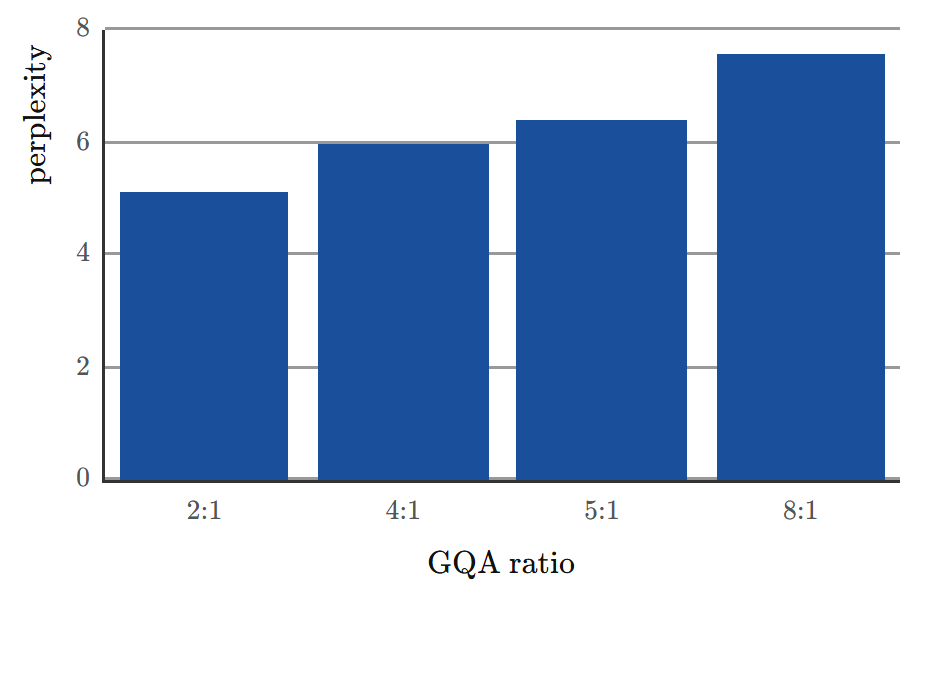
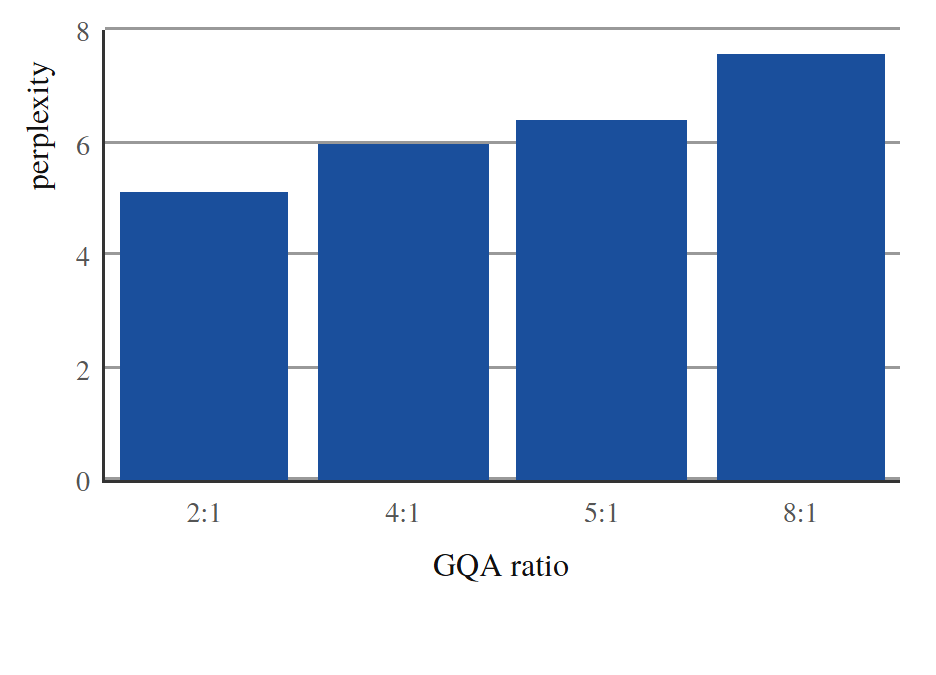
feat(figures): per-engine exemplars, and four bugs the exemplar gate found
figure_review now serves the exemplar matching the figure engine. Showing
a matplotlib chart the four-bar div exemplar would steer it straight back
into the ceiling this engine exists to escape. The rubric also gains a
wrong-engine verdict, so a plot drawn as boxes is rebuilt rather than
patched.

The authoring script now LINTS each exemplar before copying it. An
exemplar that cannot pass the rules it exemplifies is incoherent, and it
ships as the bar every future figure is measured against. That gate
immediately found four real defects:

1. Math is not set in the body face. With fontset=stix matplotlib takes
   symbols from STIX, so every formula failed the font allowlist. The
   venue now declares the faces its math fontset emits.

2. Inside a matplotlib SVG the user unit is a POINT, not a CSS px. The
   96dpi mapping that holds for the html engine reported genuine 9pt
   labels as 6.75pt and a 0.7 linewidth as 0.7px. Rule 3 is now
   engine-aware and the module strokes clear the floor directly.

3. Formula internals could not be detected by font family, because
   matplotlib takes upright glyphs inside math from the BODY face: a
   superscript reads as TeX Gyre Termes exactly like a plain label. The
   structural tell is absolute glyph positioning, a tspan with explicit
   x and y, which is the same thing KaTeX does and earns the same three
   exemptions.

4. The worker was overwriting matplotlib PNG and PDF with browser
[…]

diff --git a/figures-mcp/test/author-exemplars.ts b/figures-mcp/test/author-exemplars.ts
@@ -6,11 +6,14 @@
 //   bun test/author-exemplars.ts
 //
 // (Not a test — it regenerates committed assets. Look at the PNGs before committing.)
-import { cpSync, mkdtempSync, writeFileSync } from "node:fs"
+import { cpSync, mkdtempSync, readFileSync, writeFileSync } from "node:fs"
 import { tmpdir } from "node:os"
 import { join } from "node:path"
+import { parse as parseYaml } from "yaml"
 import { scaffold } from "../src/scaffold"
 import { render } from "../src/render"
+import { lint } from "../src/lint"
+import { resolveVenue } from "../src/venue"
 
 const ws = mkdtempSync(join(tmpdir(), "fig-exemplars-"))
 const EXEMPLARS = join(import.meta.dir, "..", "src", "assets", "exemplars")
@@ -155,13 +158,120 @@ writeFileSync(
 `,
 )
 
+// ---- exemplar 3: chart on the mpl engine — the bar for anything quantitative ----
+//
+// This exists because figure_review hands the model exemplars as "the bar". Reviewing a
+// matplotlib chart against exemplar-chart.png — four bars, one linear axis, no legend —
+// would steer it backwards into the very ceiling this engine was added to escape. So the
+// exemplar deliberately exercises what the HTML engine has no primitive for: a log axis,
+// a percentile band, two marker series, a reference line, an annotation and two panels.
+//
+// Every number rendered as ink is in data.json. That is not decoration: rule 8 fails the
+// figure otherwise, and an exemplar that could not pass its own lint would be incoherent.
+await scaffold(ws, {
+  name: "ex-chart-mpl",
+  archetype: "chart",
+  engine: "mpl",
+  claim: "Key error exceeds value error by 1-2 orders of magnitude, and layer 0 is a 10x outlier.",
+  caption: "Quantization error against bit-width, and per-layer key error at four bits.",
+  width: "full",
+})
+writeFileSync(
+  join(ws, "figures", "ex-chart-mpl", "data.json"),
+  JSON.stringify(
+    {
+      bits: [2, 3, 4, 6, 8],
+      keys_median: [1.0, 0.25, 0.0625, 0.00390625, 0.000244140625],
+      keys_lo: [0.6, 0.15, 0.0375, 0.00234375, 0.00014648],
+      keys_hi: [1.85, 0.4625, 0.115625, 0.00722656, 0.00045166],
+      values_median: [0.02857143, 0.00714286, 0.00178571, 0.00011161, 0.00000698],
+      layers: [0, 1, 2, 3, 4, 5, 6, 7, 8, 9, 10, 11],
+      layer_error: [0.625, 0.068, 0.058, 0.049, 0.055, 0.047, 0.062, 0.081, 0.053, 0.05, 0.072, 0.066],
+      median_layer: 0.0625,
+      outlier_ratio: 10,
+      layer_axis_floor: 0.02,
+      layer_axis_ceiling: 2.0,
+    },
+    null,
+    1,
+  ),
+)
+writeFileSync(
+  join(ws, "figures", "ex-chart-mpl", "figure.py"),
+  `from matplotlib.ticker import NullFormatter
+
+from paperino_mpl import ACCENT, ACCENT_WARM, INK, MUTED, data, figure, save
+
+d = data()
+fig, (a, b) = figure("full", panels=2, ratios=[1, 1.25])
+
+# (a) median-layer error against bit-width, with the layer spread as a band.
+a.fill_between(d["bits"], d["keys_lo"], d["keys_hi"], color=ACCENT_WARM, alpha=0.15, linewidth=0)
+a.plot(d["bits"], d["keys_median"], marker="o", color=ACCENT_WARM, label=r"$\\sigma_K^{(\\ell)}(b)$  keys")
+a.plot(d["bits"], d["values_median"], marker="s", color=ACCENT, label=r"$\\sigma_V^{(\\ell)}(b)$  values")
+a.set_yscale("log")
+a.set_xticks(d["bits"])
+a.set_xlabel(r"Bit-width $b$")
+a.set_ylabel(r"Quantization error  (MSE)")
+a.set_title("(a) Median layer", loc="left", fontweight="bold")
+a.legend()
+
+# (b) per-layer key error at four bits; layer 0 carries the outlier.
+colors = [ACCENT_WARM if i == 0 else MUTED for i in d["layers"]]
+b.bar(d["layers"], d["layer_error"], width=0.72, color=colors)
+b.axhline(d["median_layer"], color=INK, linewidth=0.8, linestyle="--")
+b.set_yscale("log")
+# A log axis spanning barely one decade makes matplotlib label the MINOR ticks, and the
+# axis comes out reading 6x10^-1, 4x10^-1, 3x10^-1, 2x10^-1 -- unreadable, and the same
+# class of failure as an unlabelled top gridline. Pin the limits so whole decades appear
+# and silence the minor labels.
+b.set_ylim(d["layer_axis_floor"], d["layer_axis_ceiling"])
+b.yaxis.set_minor_formatter(NullFormatter())
+b.set_xticks(d["layers"][::2])
+b.set_xlabel(r"Layer index $\\ell$")
+b.set_ylabel(r"$\\sigma_K^{(\\ell)}(b{=}4)$")
+b.set_title("(b) Per-layer key error", loc="left", fontweight="bold")
+b.text(
+    len(d["layers"]) - 1, d["median_layer"] * 1.12, "median layer", color=MUTED, ha="right", va="bottom", fontsize=7.5
+)
+# Anchored inside the axes so it cannot collide with the panel title above it.
+b.annotate(
+    f"layer 0: {d['outlier_ratio']}x median",
+    xy=(0.45, d["layer_error"][0]),
+    xytext=(3.0, d["layer_error"][0] * 0.62),
+    color=INK,
+    arrowprops=dict(arrowstyle="-|>", color=INK, linewidth=0.8, connectionstyle="arc3,rad=-0.25"),
+    va="center",
+)
+
+save(fig)
+`,
+)
+
 for (const [name, out] of [
   ["ex-schematic", "exemplar-schematic.png"],
   ["ex-chart", "exemplar-chart.png"],
+  ["ex-chart-mpl", "exemplar-chart-mpl.png"],
 ] as const) {
   const result = await render(ws, name)
   if (!result.ok) throw new Error(`${name} render failed: ${result.error}\n${result.consoleOutput.join("\n")}`)
+
+  // An exemplar that cannot pass the rules it exemplifies is incoherent — and it would be
+  // shipped as the bar every future figure is steered toward. Fail loudly instead.
+  const dir = join(ws, "figures", name)
+  const meta = parseYaml(readFileSync(join(dir, "meta.yaml"), "utf8"))
+  const engine: "html" | "mpl" = meta.engine === "mpl" ? "mpl" : "html"
+  const errors = lint({
+    source: readFileSync(join(dir, engine === "mpl" ? "figure.py" : "figure.html"), "utf8"),
+    meta: { ...meta, engine },
+    data: JSON.parse(readFileSync(join(dir, "data.json"), "utf8")),
+    allowedFaces: ["KaTeX_", resolveVenue(ws).textFace, ...resolveVenue(ws).mathFaces],
+    mathFaces: resolveVenue(ws).mathFaces,
+    manifest: JSON.parse(readFileSync(join(dir, "build", "bboxes.json"), "utf8")),
+  })
+  if (errors.length) throw new Error(`${name} FAILED ITS OWN LINT:\n${JSON.stringify(errors, null, 1)}`)
+
   cpSync(result.png, join(EXEMPLARS, out))
-  console.log(`wrote ${out}`)
+  console.log(`wrote ${out} (lint clean)`)
 }
 console.log("done — LOOK at both PNGs before committing; they are the bar the review loop steers toward")

diff --git a/figures-mcp/src/lint.ts b/figures-mcp/src/lint.ts
@@ -20,6 +20,13 @@ export type LintInput = {
   /** Families a text node may be set in. Venue-derived when the server calls it, so a Times
    *  paper and a Computer Modern paper each accept exactly their own face. */
   allowedFaces?: string[]
+  /**
+   * Families the math engine typesets in (STIX under Times venues, Computer Modern under
+   * `article`). Text set in one of these IS a formula, and gets the same three exemptions
+   * KaTeX output already has — script sizes below the 7pt floor, self-overlapping glyph
+   * boxes, and digits that are notation rather than data.
+   */
+  mathFaces?: string[]
   manifest: {
     viewport: { width: number; height: number }
     texts: TextBox[]
@@ -92,6 +99,13 @@ const traces = (rendered: number, values: number[]) =>
 export function lint(input: LintInput): LintError[] {
   const errors: LintError[] = []
   const { texts, strokes, viewport } = input.manifest
+  // "Inside a formula", whichever engine drew it. The HTML engine says so with a .katex
+  // ancestor; matplotlib says so by setting the glyphs in the math fontset's own faces.
+  // Both mean the same thing: a math typesetter chose this size and position, not the
+  // author, so the rules written for authored text do not apply.
+  const firstFace = (t: TextBox) => t.fontFamily.split(",")[0].trim().replace(/^["']|["']$/g, "")
+  const inMath = (t: TextBox) =>
+    t.inKatex || (input.mathFaces ?? []).some((face) => firstFace(t).startsWith(face))
   const err = (rule: string, selector: string, actual: string, expected: string) =>
     errors.push({ rule, selector, actual, expected })
 
@@ -101,7 +115,7 @@ export function lint(input: LintInput): LintError[] {
       // KaTeX absolutely positions glyph boxes, so a formula's own spans routinely
       // intersect. That is its layout engine's business — pairwise overlap inside a
       // formula would be a false-positive storm. Formula-vs-outside still counts.
-      if (texts[i].inKatex && texts[j].inKatex) continue
+      if (inMath(texts[i]) && inMath(texts[j])) continue
       const a = texts[i].rect
       const b = texts[j].rect
       const ox = Math.min(a.x + a.w, b.x + b.w) - Math.max(a.x, b.x) - 2
@@ -127,13 +141,25 @@ export function lint(input: LintInput): LintError[] {
       )
   }
 
-  // 3 min-type-size: a 7pt floor at the 96dpi print mapping — a print guarantee, not an
-  // arbitrary screen number. KaTeX internals are exempt: LaTeX itself sets scripts at
-  // 7/5pt in a 10pt body, so a blanket floor would fail every superscript.
+  // 3 min-type-size: a 7pt floor — a print guarantee, not an arbitrary screen number.
+  //
+  // The px-to-pt factor depends on the engine, because the two measure in different units.
+  // An HTML figure is laid out in CSS px at Chromium's 96dpi, so 1px = 0.75pt. A matplotlib
+  // SVG's user unit is a POINT (72/in), and the backend writes the point value straight
+  // into font-size, so `font-size: 9px` there really is 9pt. Applying 0.75 to it reported
+  // genuine 9pt labels as 6.75pt and failed every one of them.
+  //
+  // KaTeX internals are exempt either way: LaTeX itself sets scripts at 7/5pt in a 10pt
+  // body, so a blanket floor would fail every superscript.
+  const ptPerUnit = input.meta.engine === "mpl" ? 1 : 0.75
+  // Rounded UP: 7/0.75 is 9.333…, and 9.33px is 6.9975pt, so quoting 9.33 as the floor
+  // would name a size that does not actually clear it.
+  const floorUnits = Math.ceil((7 / ptPerUnit) * 100) / 100
   for (const t of texts) {
-    if (t.inKatex) continue
-    const pt = t.fontSize * 0.75
-    if (pt < 7 - 0.01) err("min-type-size", t.selector, `${t.fontSize}px (${pt.toFixed(2)}pt)`, ">= 7pt (9.34px)")
+    if (inMath(t)) continue
+    const pt = t.fontSize * ptPerUnit
+    if (pt < 7 - 0.01)
+      err("min-type-size", t.selector, `${t.fontSize}px (${pt.toFixed(2)}pt)`, `>= 7pt (${floorUnits.toFixed(2)}px)`)
   }
 
   // 4 contrast
@@ -168,9 +194,9 @@ export function lint(input: LintInput): LintError[] {
   const labels = new Set(flattenStrings(input.data))
   for (const t of texts) {
     if (t.derived) continue
-    // Digits inside a formula are notation, not data: the 2 in σ² is an exponent, not
-    // a cell. Provenance governs rendered VALUES.
-    if (t.inKatex) continue
+    // Digits inside a formula are notation, not data: the 2 in σ² is an exponent, and the
+    // 4 in b=4 is a subscript naming a condition. Provenance governs rendered VALUES.
+    if (inMath(t)) continue
     // a cell copied verbatim from a string in data (e.g. the step label "5C") is sourced
     if (labels.has(t.text)) continue
     const normalized = t.text.replace(/(?<=\d),(?=\d)/g, "") // 14,617 -> 14617

diff --git a/figures-mcp/src/server.ts b/figures-mcp/src/server.ts
@@ -106,7 +106,8 @@ server.registerTool(
       source: readFileSync(join(dir, engine === "mpl" ? "figure.py" : "figure.html"), "utf8"),
       meta: { ...meta, engine },
       data: JSON.parse(readFileSync(join(dir, "data.json"), "utf8")),
-      allowedFaces: ["KaTeX_", venue.textFace],
+      allowedFaces: ["KaTeX_", venue.textFace, ...venue.mathFaces],
+      mathFaces: venue.mathFaces,
       manifest: JSON.parse(readFileSync(bboxPath, "utf8")),
     })
     const result = { passed: errors.length === 0, errors }
@@ -139,16 +140,24 @@ server.registerTool(
       "- Would a reviewer notice this was NOT made with TikZ/pgfplots? A web-app look (rounded cards, pill badges, UI fonts, drop shadows) = reject.",
       "- Any pseudo-math (sigma_ch, x^2 as plain text)? Every symbol must be typeset in a .math span.",
       "- Minimal in-figure prose: the caption explains, the figure shows. No headline inside the figure; panels are (a), (b).",
+      "- Is this the RIGHT ENGINE? A plot drawn as boxes, or a diagram forced onto axes, is a " +
+        "wrong-engine failure: say so and re-scaffold on the other engine rather than patching this one.",
       "- Is the element the caption is about the most salient thing?",
       "- Is anything encoded twice (color + position for the same variable)?",
       "- Would it survive at 50% scale? In grayscale?",
       "If issues remain, patch figure.html by selector and rerun figure_render + figure_lint. Max 4 iterations, then stop and surface to the user.",
     ].join("\n")
+    // Exemplars are the bar the model steers toward, so they must match the engine. Showing
+    // a matplotlib chart the four-bar div exemplar would steer it back into exactly the
+    // ceiling this engine exists to escape.
+    const exemplars =
+      meta.engine === "mpl"
+        ? ["exemplar-chart-mpl.png", "exemplar-schematic.png"]
+        : ["exemplar-schematic.png", "exemplar-chart.png"]
     return {
       content: [
         image(join(dir, "build", `${a.name}.png`)),
-        image(join(EXEMPLARS, "exemplar-schematic.png")),
-        image(join(EXEMPLARS, "exemplar-chart.png")),
+        ...exemplars.map((file) => image(join(EXEMPLARS, file))),
         { type: "text" as const, text: rubric },
       ],
     }

diff --git a/figures-mcp/src/venue.ts b/figures-mcp/src/venue.ts
@@ -15,9 +15,24 @@ export type Venue = {
    */
   textFace: string
   mathFontset: "cm" | "stix"
+  /**
+   * Font families the math fontset actually emits, as allowlist prefixes.
+   *
+   * Math is NOT set in the body face — matplotlib typesets it in the fontset's own faces,
+   * so a Times figure reports STIXGeneral on every symbol and a Computer Modern one
+   * reports cmmi10/cmsy10. That is correct typography (STIX is the Times-metric math
+   * companion), but rule 13 rejects it unless the venue declares it. The HTML engine never
+   * hits this only because KaTeX happens to NAME its math faces KaTeX_*.
+   */
+  mathFaces: string[]
   inches: { narrow: number; full: number }
   px: { narrow: number; full: number }
 }
+
+const MATH_FACES = {
+  stix: ["STIX"],
+  cm: ["cmr", "cmmi", "cmsy", "cmex", "cmb", "cmss", "cmtt"],
+} as const
 
 // Print-true widths per venue: single column / full text width, in inches.
 // 96dpi is Chromium's CSS-px-per-inch, which is what makes \includegraphics land ~1:1.
@@ -59,6 +74,7 @@ export function resolveVenue(workspace: string): Venue {
     id,
     textFace: v.textFace,
     mathFontset: v.mathFontset,
+    mathFaces: [...MATH_FACES[v.mathFontset]],
     inches: { narrow: v.narrow, full: v.full },
     px: { narrow: Math.round(v.narrow * DPI), full: Math.round(v.full * DPI) },
   }

diff --git a/figures-mcp/src/assets/paperino_mpl.py b/figures-mcp/src/assets/paperino_mpl.py
@@ -68,13 +68,16 @@ plt.rcParams.update(
         "xtick.labelsize": 8,
         "ytick.labelsize": 8,
         "legend.fontsize": 8,
-        # Strokes: the SVG's user unit is a point, which Chromium maps to 1.333 CSS px, so
-        # 0.7pt lands at 0.93px -- above lint rule 6's 0.75px floor. Do not go below 0.6.
-        "axes.linewidth": 0.7,
-        "xtick.major.width": 0.7,
-        "ytick.major.width": 0.7,
-        "xtick.minor.width": 0.5,
-        "ytick.minor.width": 0.5,
+        # Strokes: lint rule 6 floors every stroke at 0.75px, and matplotlib's linewidths
+        # reach it ONE-TO-ONE. getComputedStyle().strokeWidth reports the SVG user-unit
+        # value without applying the viewBox scale, so a 0.7 linewidth measures as 0.7px
+        # and fails -- there is no 1.333 pt-to-px conversion to hide behind. Nothing here
+        # may go below 0.8; a hairline thinner than that also drops out on real paper.
+        "axes.linewidth": 0.8,
+        "xtick.major.width": 0.8,
+        "ytick.major.width": 0.8,
+        "xtick.minor.width": 0.8,
+        "ytick.minor.width": 0.8,
         "lines.linewidth": 1.3,
         "lines.markersize": 4.0,
         # Warm first: it is the more salient of the two accents, and a one-series figure
@@ -83,8 +86,10 @@ plt.rcParams.update(
         "axes.grid": True,
         "axes.grid.axis": "y",
         "grid.color": GRID,
-        "grid.linewidth": 0.5,
-        "grid.alpha": 0.6,
+        # 0.8 for the same reason as the axis strokes; alpha keeps it visually a hairline
+        # without putting the measured width under the floor.
+        "grid.linewidth": 0.8,
+        "grid.alpha": 0.5,
         # Paper idiom: two rules, not a box.
         "axes.spines.top": False,
         "axes.spines.right": False,
@@ -97,6 +102,9 @@ plt.rcParams.update(
         "figure.facecolor": "white",
         "savefig.facecolor": "white",
         "legend.frameon": False,
+        # Bar and marker edges are strokes too, and the default 1.0 is fine — but an
+        # explicit floor keeps a future edgecolor tweak from sliding under rule 6.
+        "patch.linewidth": 0.8,
     }
 )
 
